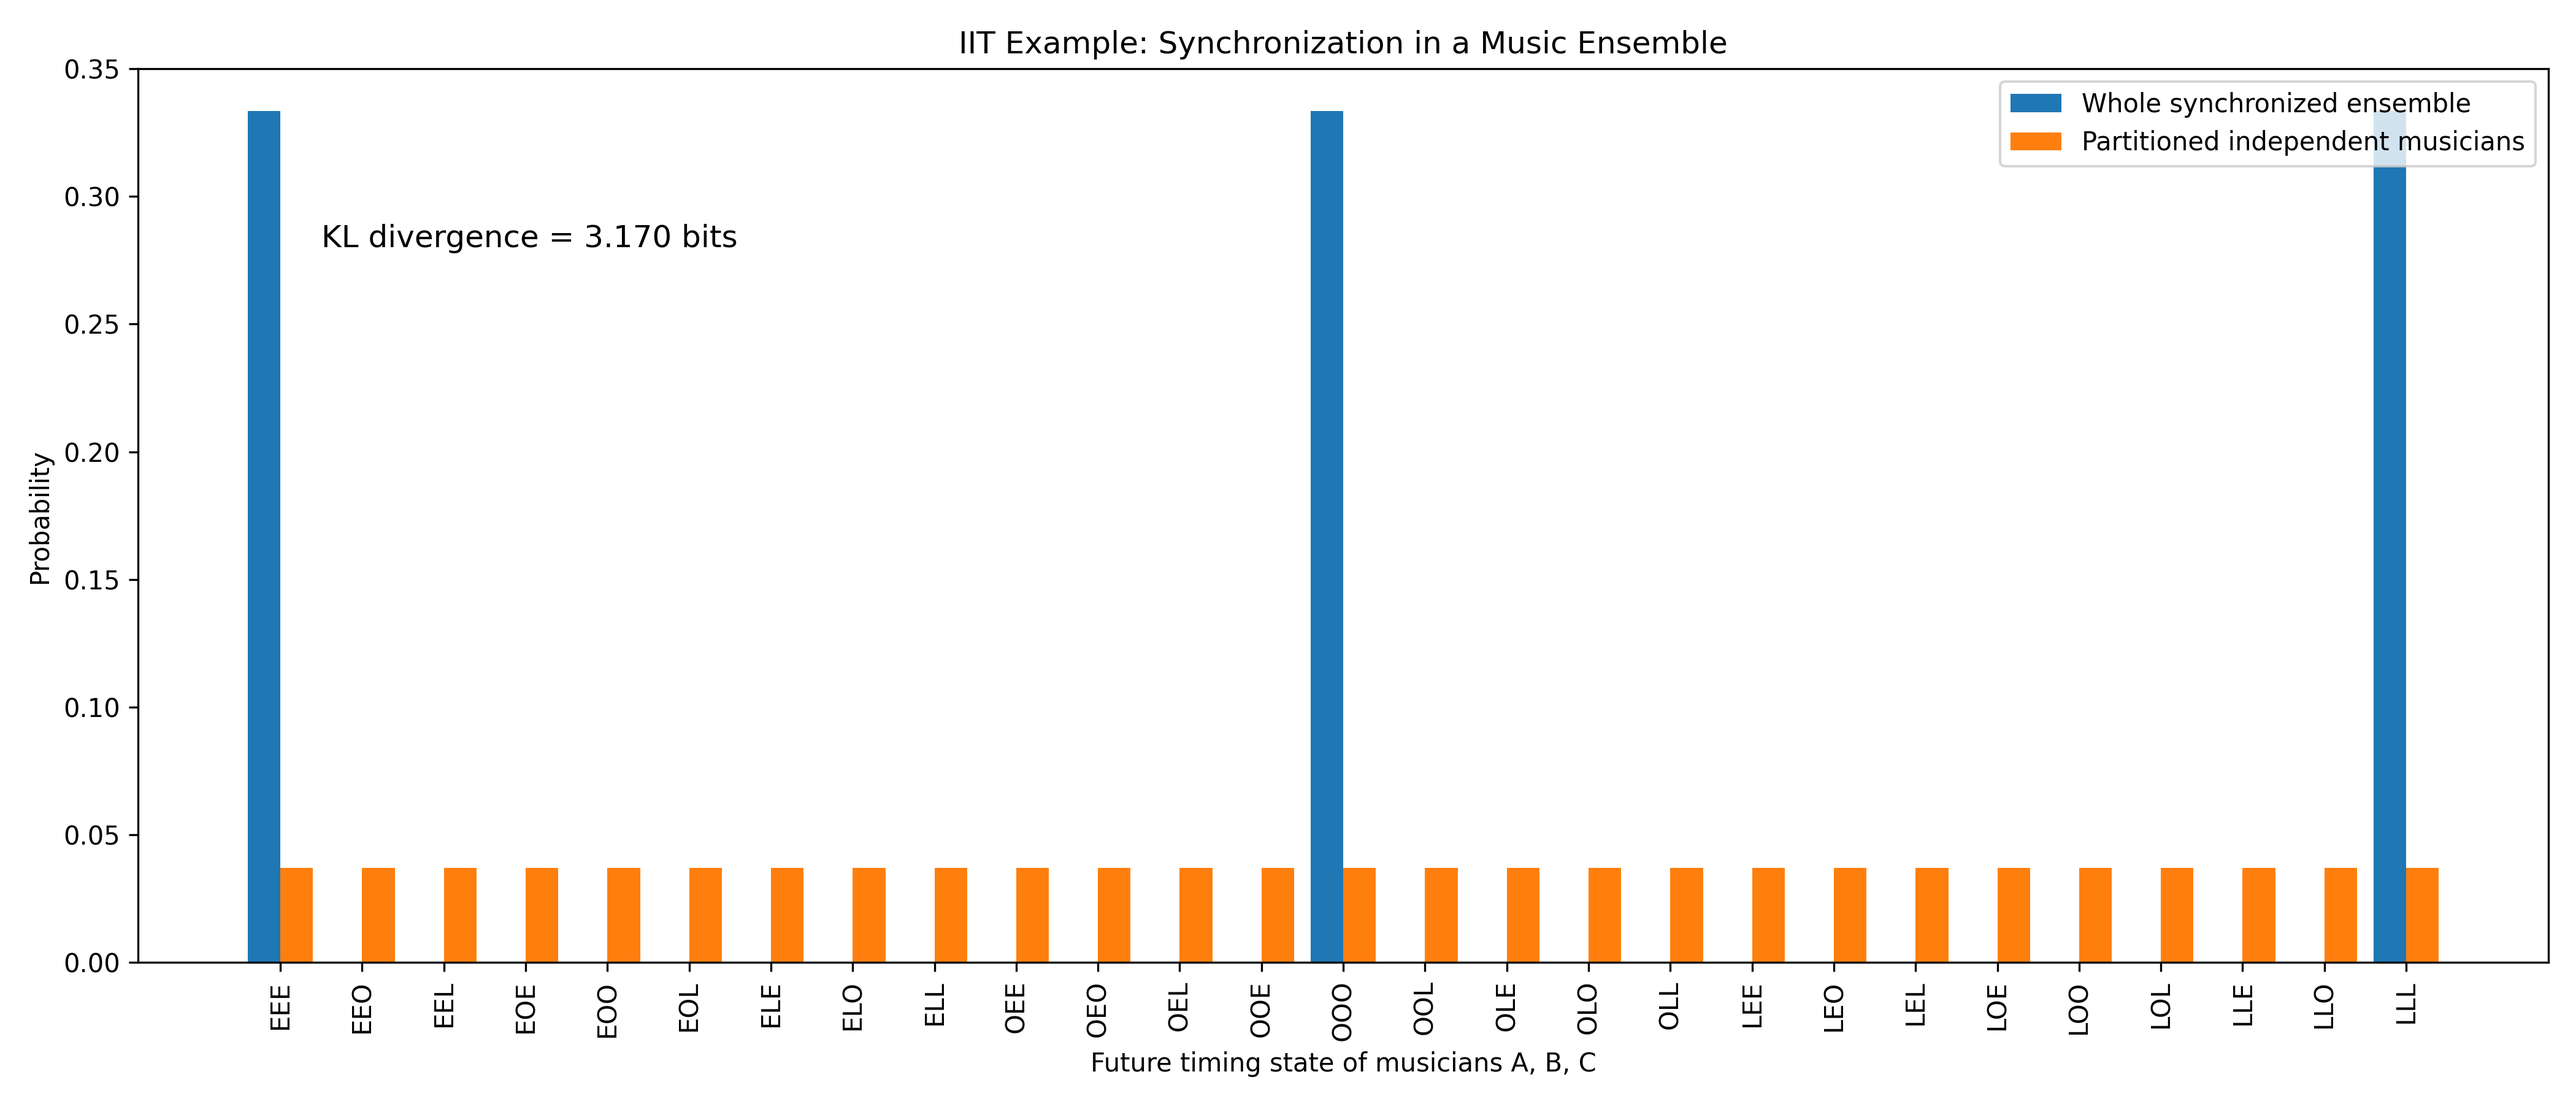
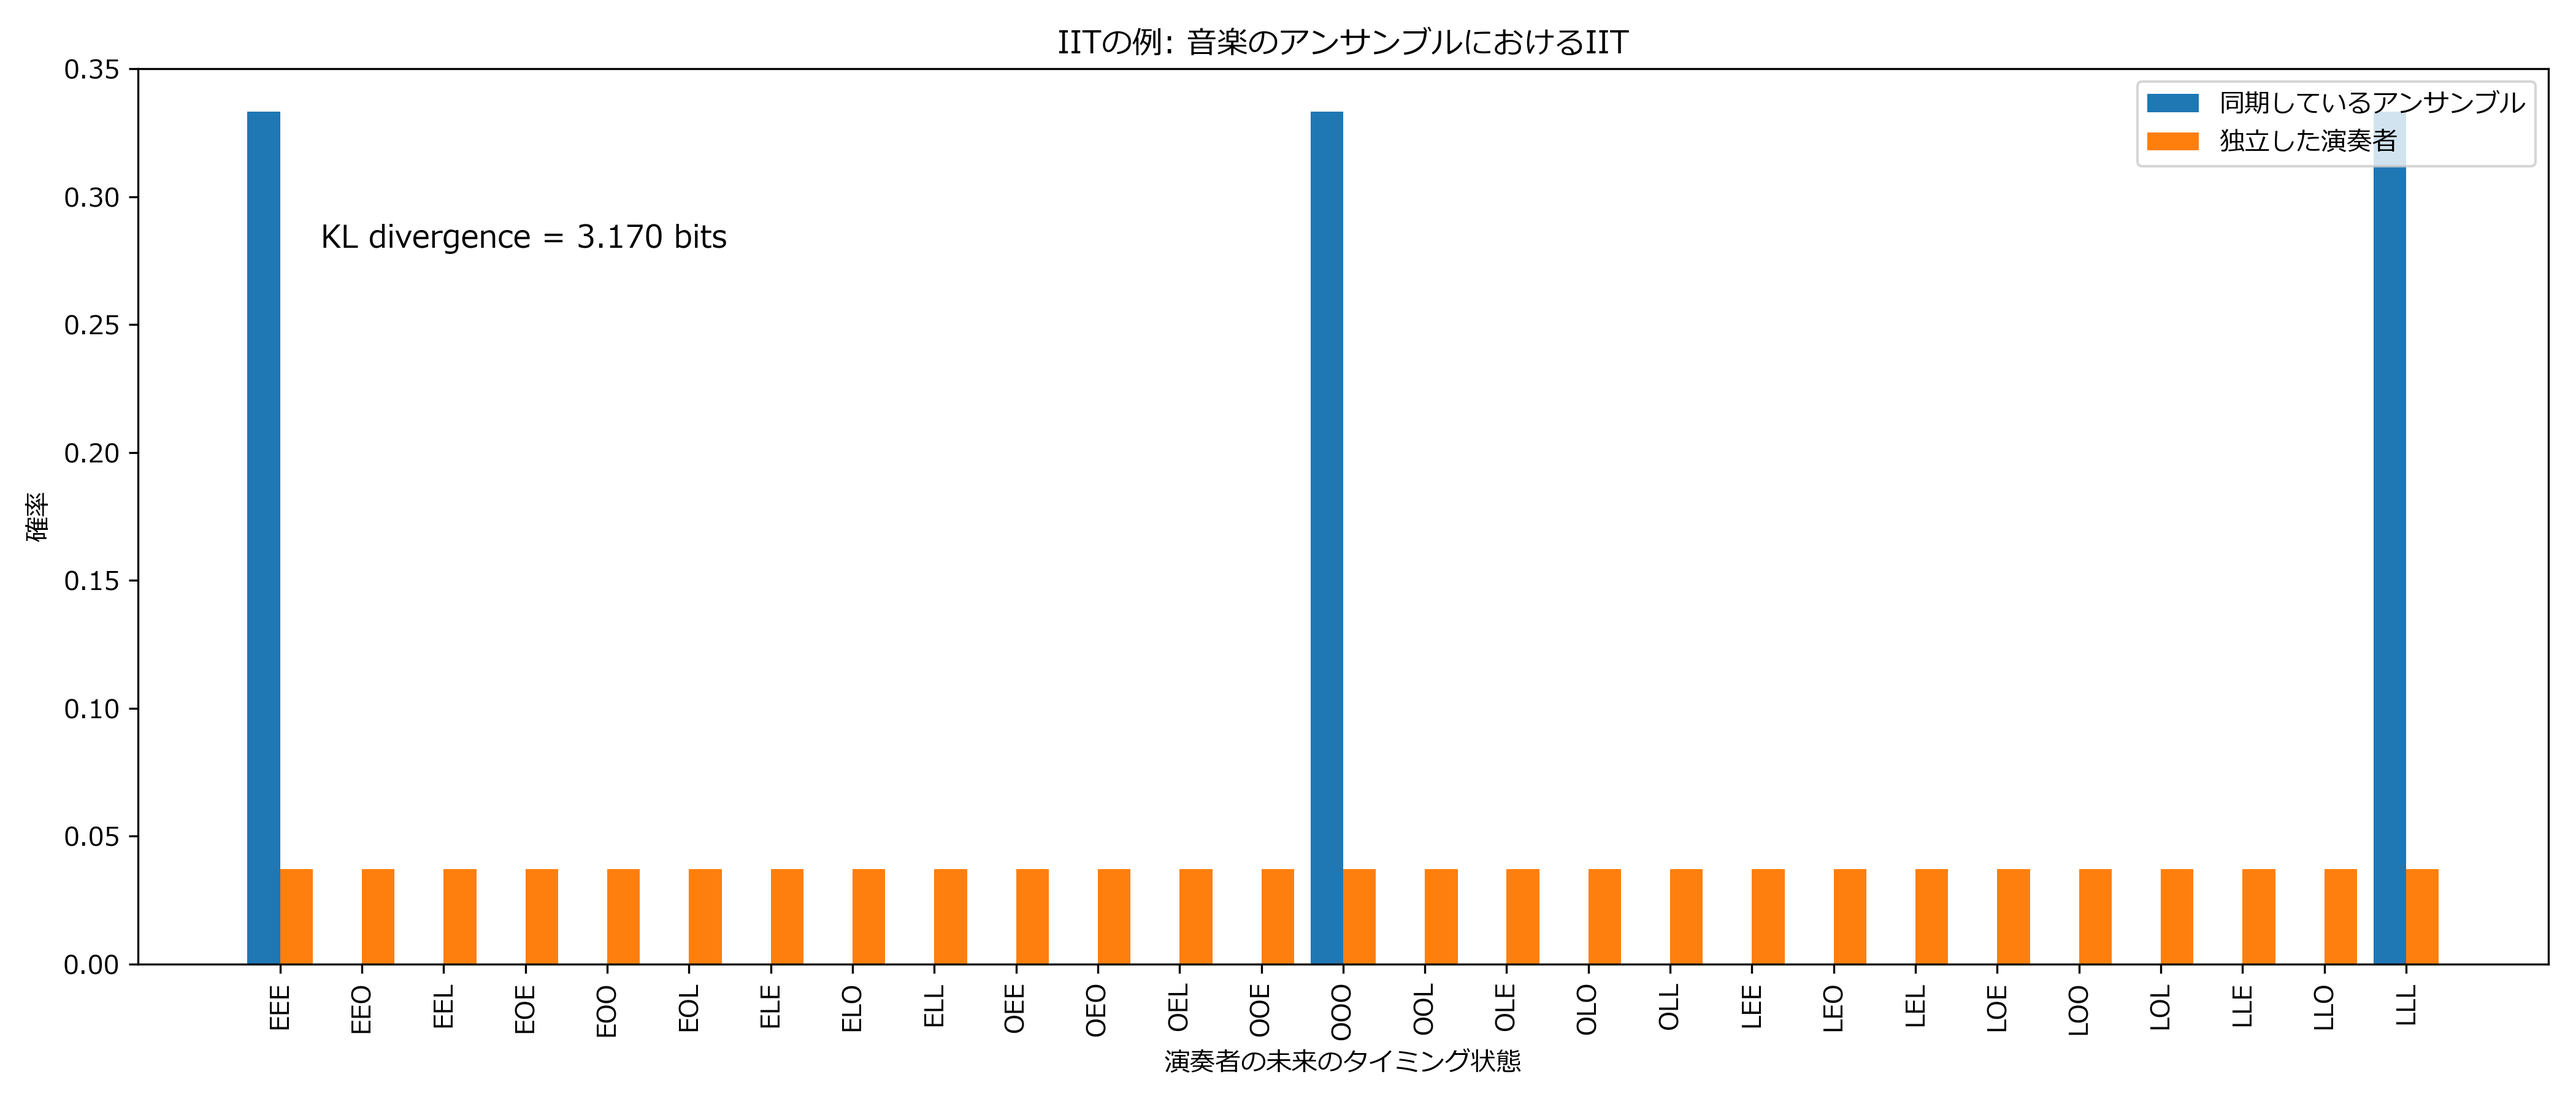
Update assignment3

diff --git a/assignment3/itt_music.py b/assignment3/itt_music.py
@@ -1,7 +1,12 @@
 import itertools
 import numpy as np
 import matplotlib.pyplot as plt
+from matplotlib import font_manager as fm
 
+font_path = r"C:\Windows\Fonts\meiryo.ttc"
+fm.fontManager.addfont(font_path)
+plt.rcParams["font.family"] = fm.FontProperties(fname=font_path).get_name()
+plt.rcParams["axes.unicode_minus"] = False
 # Three musicians: A, B, C
 # Each musician has three possible timing states:
 # E = early, O = on beat, L = late
@@ -40,13 +45,13 @@ x = np.arange(len(states))
 width = 0.4
 
 plt.figure(figsize=(14, 6))
-plt.bar(x - width / 2, p_whole, width, label="Whole synchronized ensemble")
-plt.bar(x + width / 2, q_partitioned, width, label="Partitioned independent musicians")
+plt.bar(x - width / 2, p_whole, width, label="同期しているアンサンブル")
+plt.bar(x + width / 2, q_partitioned, width, label="独立した演奏者")
 
 plt.xticks(x, states, rotation=90)
-plt.xlabel("Future timing state of musicians A, B, C")
-plt.ylabel("Probability")
-plt.title("IIT Example: Synchronization in a Music Ensemble")
+plt.xlabel("演奏者の未来のタイミング状態")
+plt.ylabel("確率")
+plt.title("IITの例: 音楽のアンサンブルにおけるIIT")
 plt.legend()
 
 plt.text(
